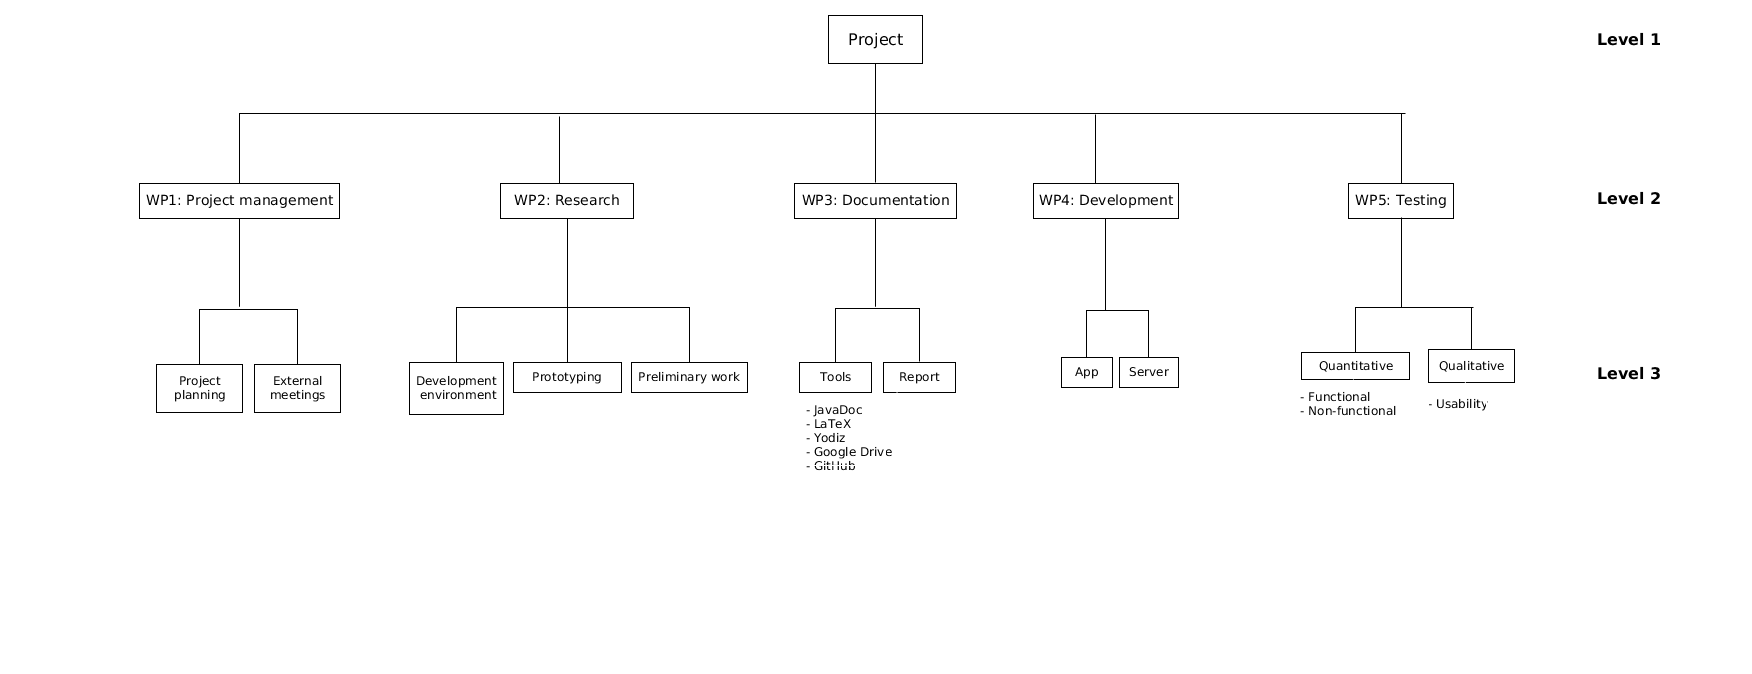
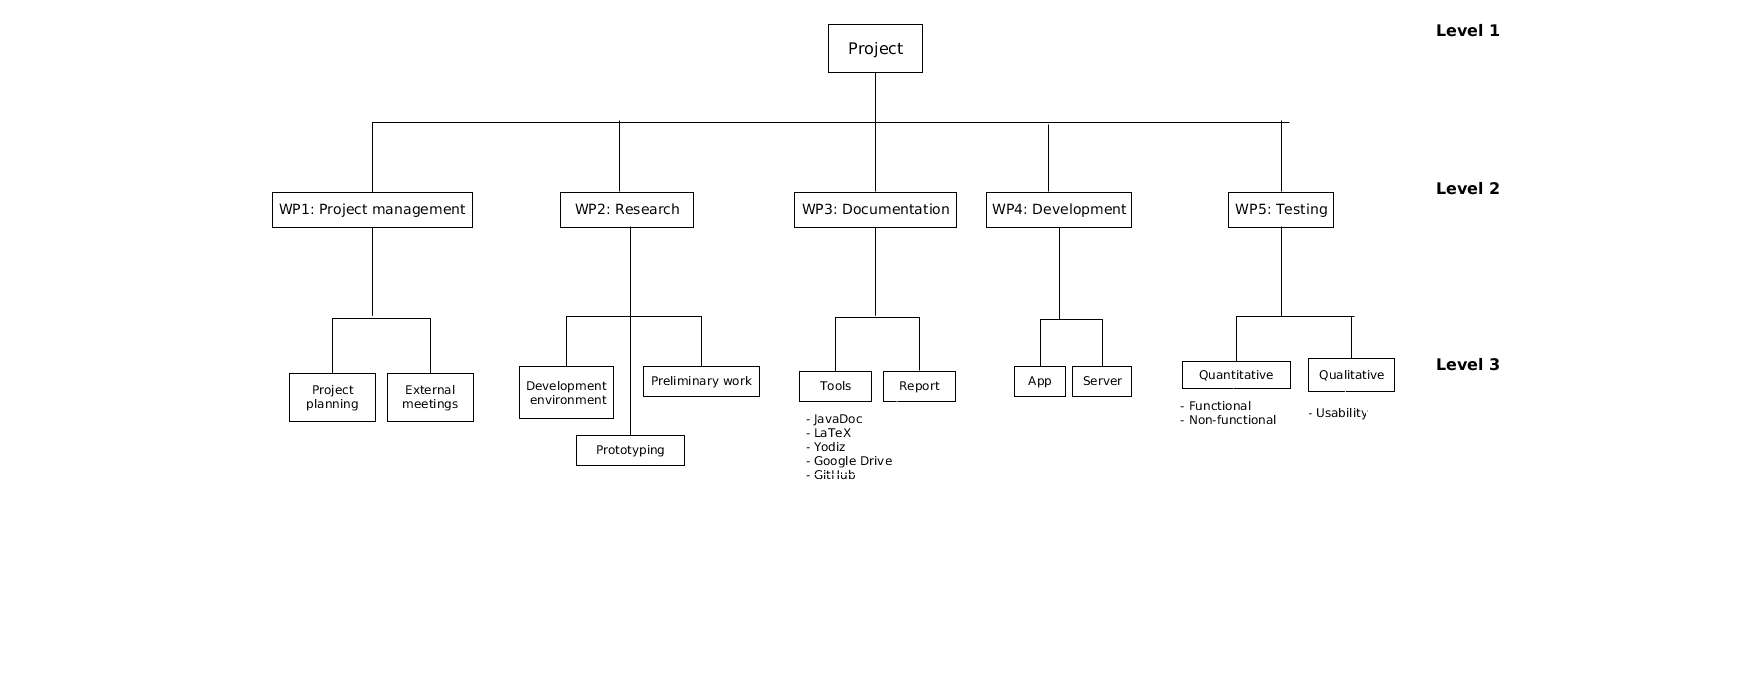
Updated wbs

diff --git a/report/rapport.tex b/report/rapport.tex
@@ -27,7 +27,6 @@ Pia	Karlsen	Lindkjølen\\\vspace{0.1\textwidth}}
 %\listoftodos
 \maketitle
 \newpage
-\input abstract.tex
 %\lsstyle
 \thispagestyle{empty}
 \pagenumbering{gobble}
@@ -39,10 +38,10 @@ Pia	Karlsen	Lindkjølen\\\vspace{0.1\textwidth}}
 \pagenumbering{Roman}
 \tableofcontents*
 
-
+\newpage
 \renewcommand\listfigurename{Figures}
 \listoffigures*
-
+\newpage
 \renewcommand\listtablename{Tables}
 \listoftables*
 	

diff --git a/report/ch/projectManagement/sec/wbs.tex b/report/ch/projectManagement/sec/wbs.tex
@@ -3,7 +3,7 @@
 \label{sec:wbs}
 
 \begin{figure}[H]
-\includegraphics[width=\textwidth]{ch/projectManagement/fig/wbs2.png}
+\includegraphics[width=\textwidth, trim=9.5cm 6cm 8.5cm 0.9cm,clip]{ch/projectManagement/fig/wbs2.png}
 \caption{Product oriented work breakdown structure for the project app.}
 \label{fig:wbs}
 \end{figure}
